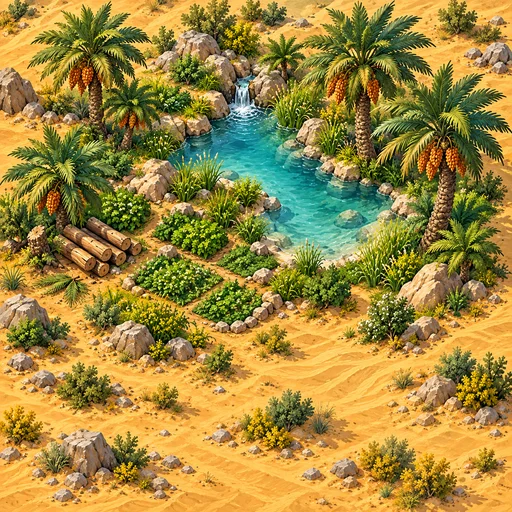
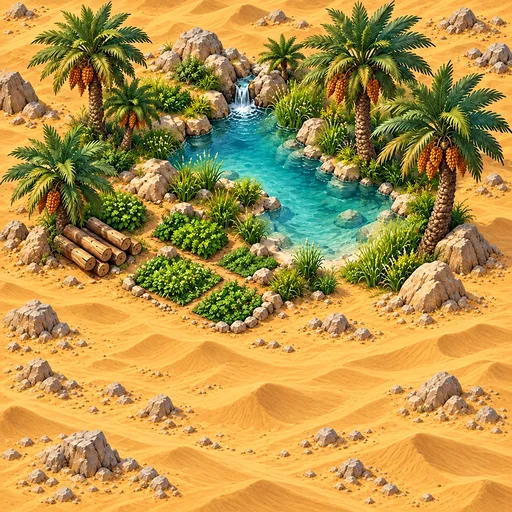
Add regional terrain artwork and prevent ports on frozen sea

diff --git a/e2e/climate.spec.ts b/e2e/climate.spec.ts
@@ -6,6 +6,68 @@ import { chooseAIAction } from "../src/game/ai";
 import { run } from "../tests/helpers";
 import AxeBuilder from "@axe-core/playwright";
 
+test("regional terrain art loads in the climate guide", async ({ page }) => {
+  await page.goto("/rules.html#world");
+  const reference = page.locator(".climate-reference");
+  for (const [climate, assets] of [
+    [
+      "Desert",
+      [
+        "desert-gold",
+        "desert-iron",
+        "desert-stone",
+        "desert-coal",
+        "desert-salt",
+        "oasis",
+      ],
+    ],
+    [
+      "Tropical",
+      [
+        "tropical-gold",
+        "tropical-iron",
+        "tropical-stone",
+        "tropical-coal",
+        "tropical-salt",
+        "tropical-clay",
+      ],
+    ],
+    ["Cold", ["cold-clay", "cold-stone"]],
+    ["Steppe", ["steppe-clay"]],
+  ] as const) {
+    await reference.getByRole("button", { name: climate, exact: true }).click();
+    for (const asset of assets) {
+      const picture = reference.locator(`[style*="terrain-${asset}-v1.webp"]`);
+      await expect(picture).toHaveCount(1);
+      expect(
+        await picture.evaluate(async (el) => {
+          const url = getComputedStyle(el).backgroundImage.match(
+            /url\(["']?(.*?)["']?\)/,
+          )![1];
+          const image = new Image();
+          image.src = url;
+          await image.decode();
+          return image.naturalWidth;
+        }),
+      ).toBe(512);
+    }
+    await reference.screenshot({
+      path: `test-artifacts/regional-${climate}-${test.info().project.name}.png`,
+    });
+  }
+  await reference
+    .getByRole("button", { name: "Temperate", exact: true })
+    .click();
+  await expect(
+    reference.locator('[style*="terrain-atlas-v2.png"]'),
+  ).not.toHaveCount(0);
+  await expect(
+    reference.locator(
+      '[style*="terrain-tropical-"], [style*="terrain-desert-"]',
+    ),
+  ).toHaveCount(0);
+});
+
 for (const locale of ["en", "fr"] as const) {
   test(`${locale}: choose Woods output and preserve it on reload`, async ({
     page,

diff --git a/tests/world.test.ts b/tests/world.test.ts
@@ -15,6 +15,41 @@ import { newGame, applyCommand } from "../src/game/engine";
 import { assertInvariants, serialize, deserialize } from "../src/game/save";
 import { chooseAIAction } from "../src/game/ai";
 describe("world and setup", () => {
+  it("excludes frozen sea from ports while allowing snow-plain coasts", () => {
+    let snowPorts = 0;
+    for (let i = 0; i < 20; i++) {
+      const w = generateWorld(`ice-ports-${i}`, 250);
+      for (const edge of Object.values(w.edges).filter((e) => e.harbor)) {
+        const resources = edge.tiles.map((id) => w.tiles[id].resource);
+        expect(resources).not.toContain("ice");
+        expect(resources.filter((r) => r === "water")).toHaveLength(1);
+        if (resources.includes("snow")) snowPorts++;
+      }
+    }
+    expect(snowPorts).toBeGreaterThan(0);
+  });
+  it("removes saved ice ports without removing valid snow ports or changing terrain", () => {
+    const s = newGame("ice-port-save");
+    Object.assign(s, generateWorld(s.seed, 2000));
+    const coast = (resource: "ice" | "snow") =>
+      Object.values(s.edges).find((edge) => {
+        const resources = edge.tiles.map((id) => s.tiles[id].resource);
+        return resources.includes(resource) && resources.includes("water");
+      })!;
+    const icy = coast("ice"),
+      snowy = coast("snow");
+    expect(icy).toBeDefined();
+    expect(snowy).toBeDefined();
+    icy.harbor = snowy.harbor = "generic";
+    const restored = deserialize(serialize(s));
+    expect(restored.edges[icy.id].harbor).toBeUndefined();
+    expect(restored.edges[snowy.id].harbor).toBe("generic");
+    expect(restored.tiles).toEqual(s.tiles);
+    expect(restored.players).toEqual(s.players);
+    addHexes(s, s.seed, []);
+    expect(s.edges[icy.id].harbor).toBeUndefined();
+    expect(s.edges[snowy.id].harbor).toBe("generic");
+  });
   it("creates exactly 125 unique climate hexes and consistent shared topology", () => {
     for (let seed = 0; seed < 30; seed++) {
       const s = newGame(`seed-${seed}`);

diff --git a/src/ui/Board.tsx b/src/ui/Board.tsx
@@ -6,6 +6,11 @@ import {
   type Biome,
   type TerrainResource,
 } from "../game/climate-content";
+import {
+  REGIONAL_ART_KEYS,
+  terrainPatternKey,
+  terrainArtFile,
+} from "./terrain-art";
 import type { TerrainKey } from "../game/content";
 import { localize as tx, useLocale } from "../i18n";
 import { friendly } from "../game/relations";
@@ -111,7 +116,7 @@ const TerrainPatterns = memo(function TerrainPatterns() {
             "gold",
             "fish",
             "whale",
-            "cold-stone",
+            ...REGIONAL_ART_KEYS,
             ...BIOMES.filter((b) => b !== "water"),
           ]),
         ].map((resource) => {
@@ -135,9 +140,7 @@ const TerrainPatterns = memo(function TerrainPatterns() {
               <image
                 href={
                   dedicated
-                    ? ["gold", "fish", "whale"].includes(art)
-                      ? `./assets/terrain-${art}-${art === "fish" ? "v2" : "v1"}.png`
-                      : `./assets/terrain-${art}-v1.webp${art === "cod" ? "?v=3" : ["forest", "hunting-forest", "jungle"].includes(art) ? "?v=2" : ""}`
+                    ? `./assets/${terrainArtFile(art)}`
                     : "./assets/terrain-atlas-v2.png"
                 }
                 width={dedicated ? 100 : 500}
@@ -156,7 +159,7 @@ const TerrainArt = memo(function TerrainArt({
   y,
   seed,
 }: {
-  resource: TerrainKey | "cold-stone";
+  resource: string;
   x: number;
   y: number;
   seed: number;
@@ -308,11 +311,7 @@ const TerrainLayer = memo(function TerrainLayer({
                 filter="url(#tile-shadow)"
               />
               <TerrainArt
-                resource={
-                  tile.climate === "cold" && tileTerrain(tile) === "stone"
-                    ? "cold-stone"
-                    : tileTerrain(tile)
-                }
+                resource={terrainPatternKey(tileTerrain(tile), tile.climate)}
                 x={x}
                 y={y}
                 seed={hash(tile.id)}

diff --git a/src/ui/terrain-art.ts b/src/ui/terrain-art.ts
@@ -1,0 +1,44 @@
+import { BIOME_INFO, type Biome, type Climate } from "../game/climate-content";
+import type { TerrainKey } from "../game/content";
+
+// Cosmetic variants only: terrain rules and saved biome IDs stay unchanged.
+const regionalArt: Partial<Record<Climate, Record<string, string>>> = {
+  desert: {
+    gold: "desert-gold",
+    ore: "desert-iron",
+    stone: "desert-stone",
+    coal: "desert-coal",
+    salt: "desert-salt",
+  },
+  tropical: {
+    gold: "tropical-gold",
+    ore: "tropical-iron",
+    stone: "tropical-stone",
+    coal: "tropical-coal",
+    salt: "tropical-salt",
+    brick: "tropical-clay",
+  },
+  cold: { stone: "cold-stone", brick: "cold-clay" },
+  steppe: { brick: "steppe-clay" },
+};
+export const REGIONAL_ART_KEYS = Object.values(regionalArt).flatMap(
+  Object.values,
+);
+export function terrainPatternKey(
+  terrain: TerrainKey,
+  climate?: Climate,
+): string {
+  const art = BIOME_INFO[terrain as Biome]?.art ?? terrain;
+  return (climate && regionalArt[climate]?.[art]) || terrain;
+}
+export function terrainArtFile(art: string): string {
+  if (["gold", "fish", "whale"].includes(art))
+    return `terrain-${art}-${art === "fish" ? "v2" : "v1"}.png`;
+  const revision =
+    art === "cod"
+      ? 3
+      : ["forest", "hunting-forest", "jungle", "oasis"].includes(art)
+        ? 2
+        : 1;
+  return `terrain-${art}-v1.webp${revision > 1 ? `?v=${revision}` : ""}`;
+}

diff --git a/src/game/world.ts b/src/game/world.ts
@@ -5,8 +5,16 @@ import { RAW, type World, type Hex, type Vertex, type Edge } from "./types";
 export const WATER_PROBABILITY = generation.waterProbability;
 export const PORT_RESOURCES = RAW.filter((g) => g !== "gold" && g !== "oil");
 export function restoreGoldPorts(world: World) {
-  for (const edge of Object.values(world.edges))
+  for (const edge of Object.values(world.edges)) {
+    if (
+      edge.harbor &&
+      edge.tiles.some((id) => world.tiles[id]?.resource === "ice")
+    ) {
+      delete edge.harbor;
+      continue;
+    }
     if (edge.harbor === "gold") edge.harbor = "generic";
+  }
 }
 export const LAND_RESOURCES = RAW.filter(
   (g) => g !== "fish" && g !== "oil" && g !== "gold",
@@ -201,6 +209,7 @@ export function addHexes(world: World, seed: string, ids: string[]) {
     if (
       e.harbor ||
       e.tiles.length !== 2 ||
+      e.tiles.some((id) => world.tiles[id].resource === "ice") ||
       used.has(e.vertices[0]) ||
       used.has(e.vertices[1])
     )

diff --git a/src/rules/TerrainReference.tsx b/src/rules/TerrainReference.tsx
@@ -1,3 +1,4 @@
+import { terrainPatternKey, terrainArtFile } from "../ui/terrain-art";
 import {
   GOOD_INFO,
   TERRAIN,
@@ -37,15 +38,11 @@ export function TerrainImage({
   tile: TerrainKey;
   climate?: Climate;
 }) {
-  const art =
-    climate === "cold" && tile === "stone"
-      ? "cold-stone"
-      : (BIOME_INFO[tile as Biome]?.art ?? tile);
+  const pattern = terrainPatternKey(tile, climate);
+  const art = BIOME_INFO[pattern as Biome]?.art ?? pattern;
   const index = atlas.indexOf(art),
     dedicated = index < 0;
-  const file = ["gold", "fish", "whale"].includes(art)
-    ? `terrain-${art}-${art === "fish" ? "v2" : "v1"}.png`
-    : `terrain-${art}-v1.webp${art === "cod" ? "?v=3" : ["forest", "hunting-forest", "jungle"].includes(art) ? "?v=2" : ""}`;
+  const file = terrainArtFile(art);
   return (
     <span
       className={`terrain-picture ${tile === "water" ? "empty-water" : ""}`}

diff --git a/e2e/map-camera.spec.ts b/e2e/map-camera.spec.ts
@@ -169,7 +169,7 @@ test("camera drag, anchored wheel zoom, fit, resize and keyboard selection stay 
   await hex.press("Enter");
   await expect(hex).toHaveClass(/selected/);
   await closePanel(page);
-  await expect(page.locator(".board-frame pattern")).toHaveCount(39);
+  await expect(page.locator(".board-frame pattern")).toHaveCount(52);
   await page.getByRole("button", { name: "Hide dice numbers" }).click();
   await expect(
     page.locator(".terrain-map .production-token circle"),

diff --git a/docs/rules/en.md b/docs/rules/en.md
@@ -40,7 +40,7 @@ Old revealed tiles keep their original terrain and yields. They are classified T
 ### Tile numbers and dice
 Every productive tile receives a uniform random number from 2 through 12, including 7. Dice are two independent d6, so tile numbers are equally common in generation but not equally likely to activate. Dice, terrain, research and rebellion randomness are saved separately. Reloading does not reroll an offer or the map. Hidden coordinates cannot be inspected by players or AI.
 ### Ports
-Eligible fully revealed coastal edges have a 10% port-candidate chance. Half are generic 3:1 ports; half are specific 2:1 raw-resource ports, excluding Gold and Oil. Ports cannot share an intersection. A town on either end uses the port, unless under siege or its sea tile is blockaded. In older saves, Gold ports are treated as generic ports.
+Eligible fully revealed coastal edges have a 10% port-candidate chance. Ports require open water beside solid land: frozen sea cannot host a port, but snow plains can. Invalid ice ports from older saves are removed on load. Half are generic 3:1 ports; half are specific 2:1 raw-resource ports, excluding Gold and Oil. Ports cannot share an intersection. A town on either end uses the port, unless under siege or its sea tile is blockaded. In older saves, Gold ports are treated as generic ports.
 ### Setup restrictions
 An extreme map may lack enough legal starting sites. The game rejects a seed with insufficient legal starting sites. During setup a placement cannot make it impossible to finish everyone's two settlements. A missing resource alone does not invalidate a map: the reserve can supply it through trade.
 
